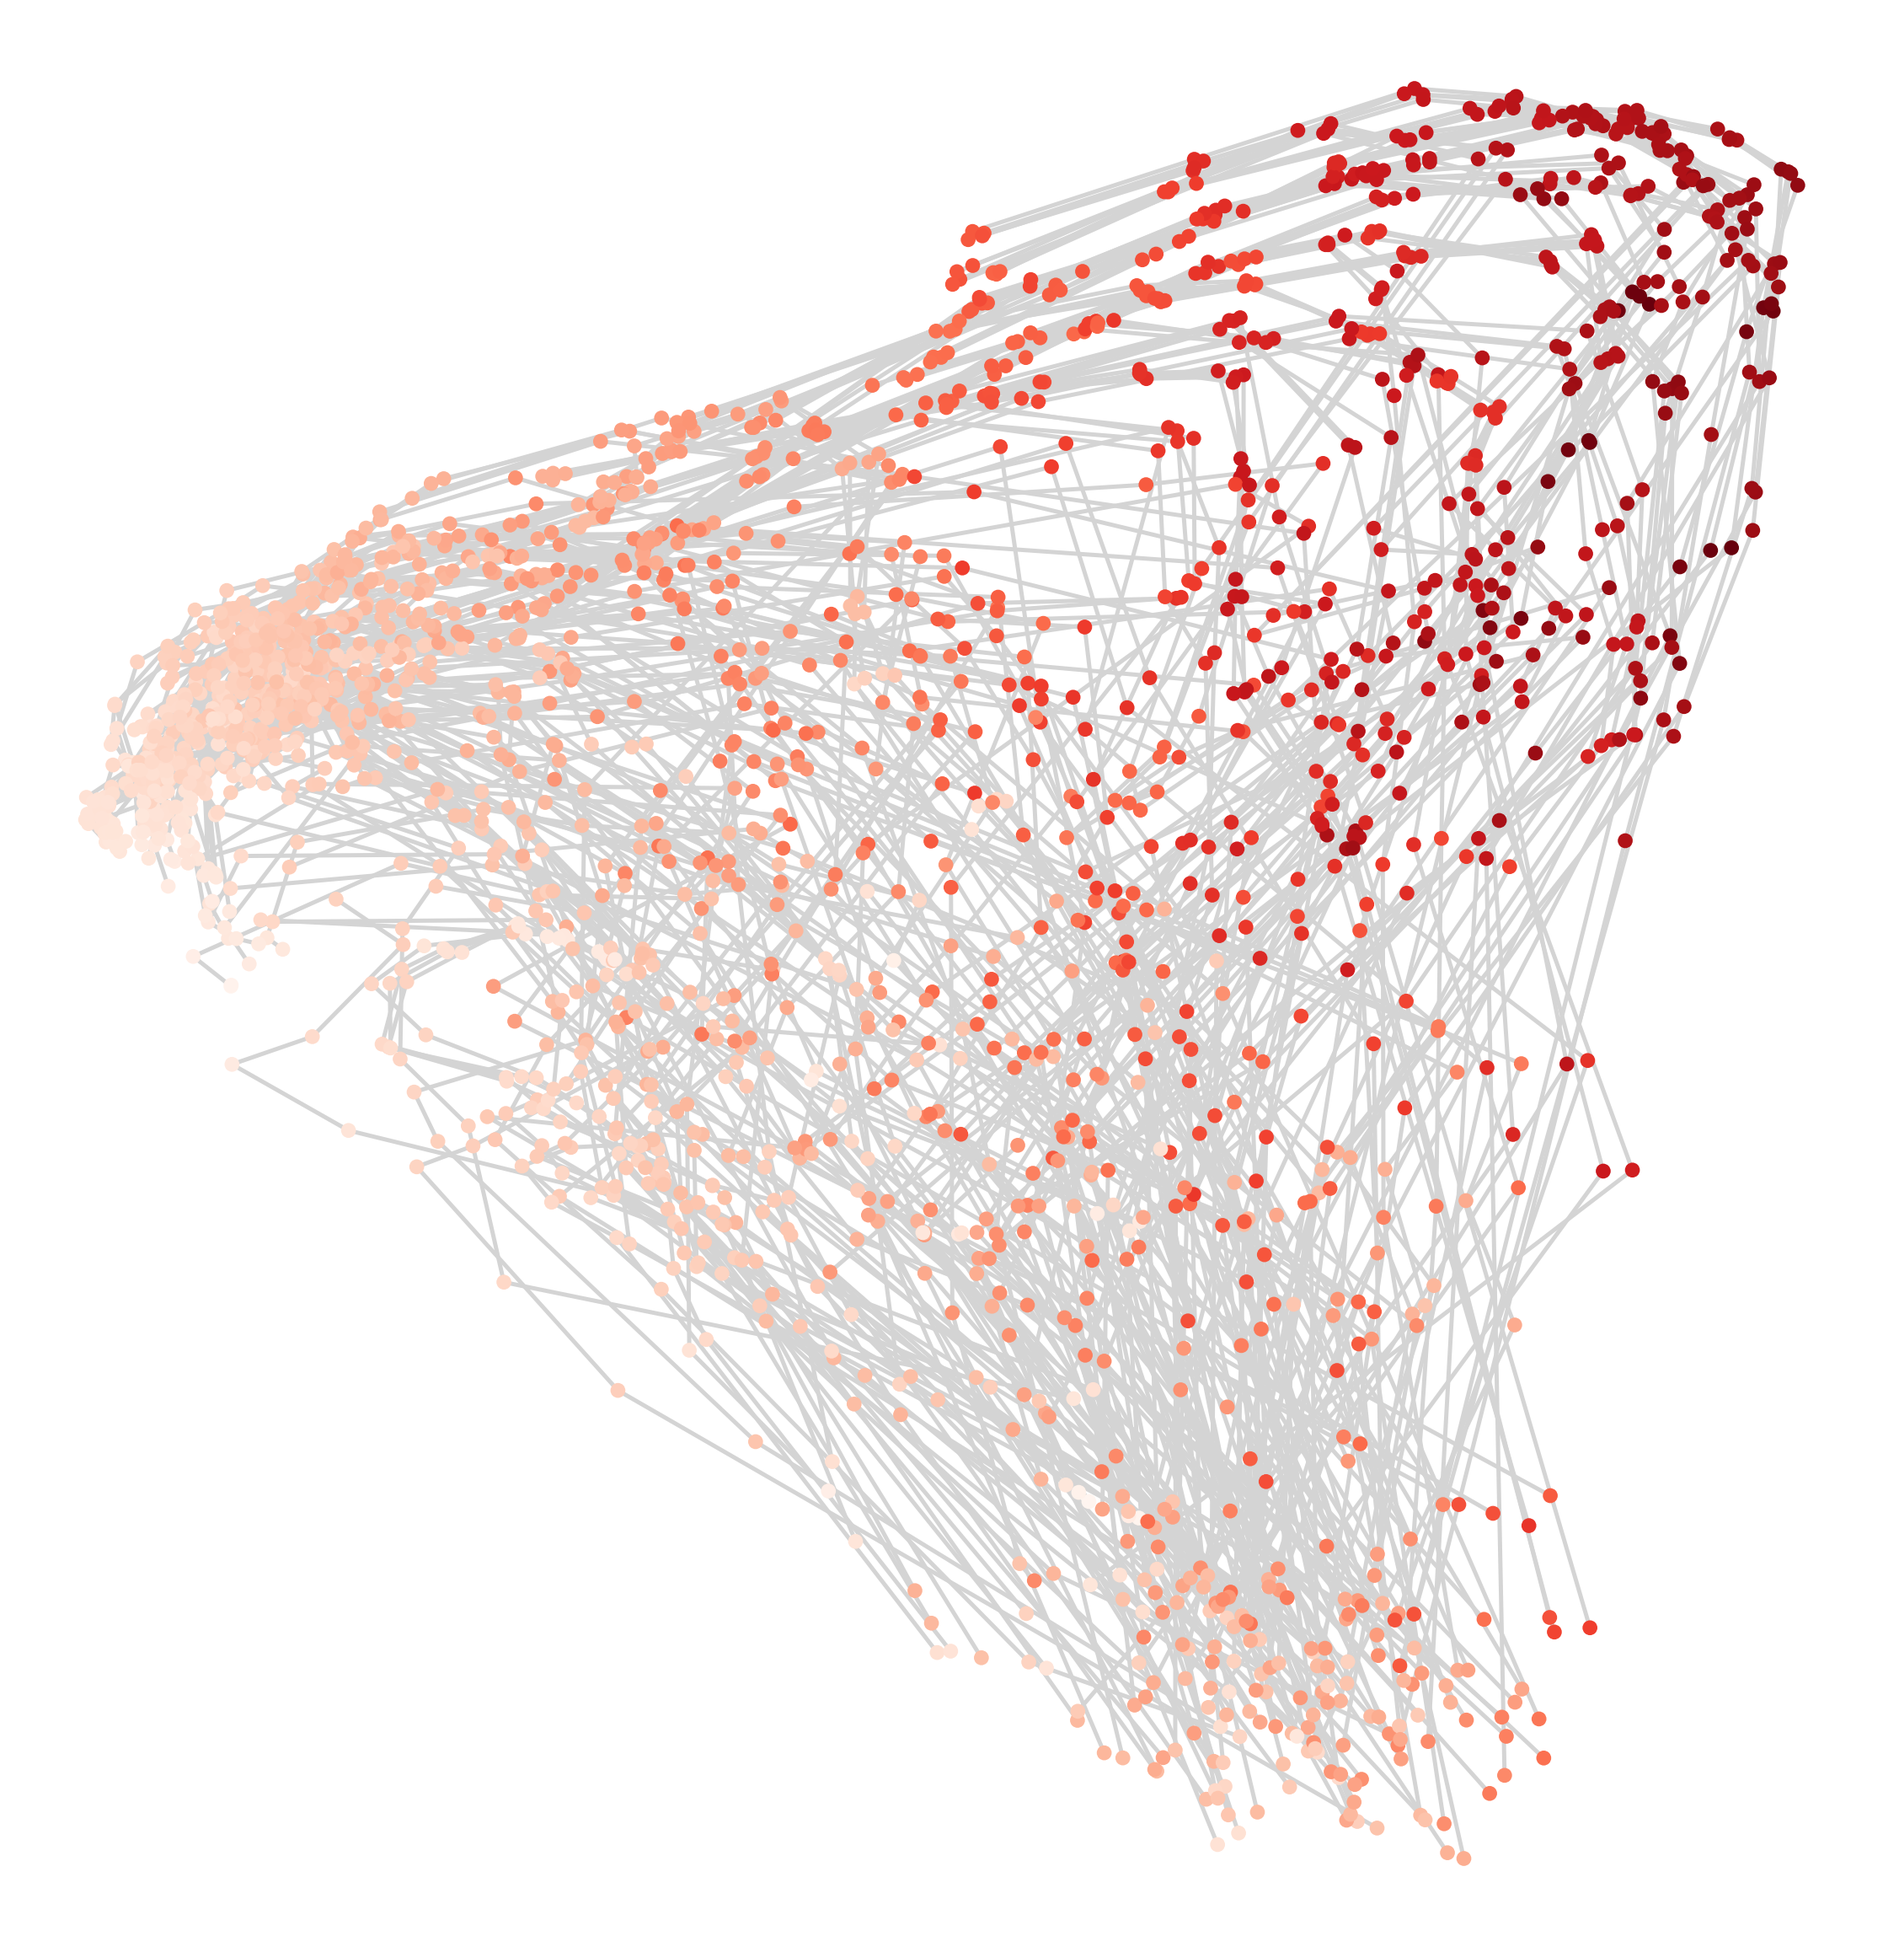
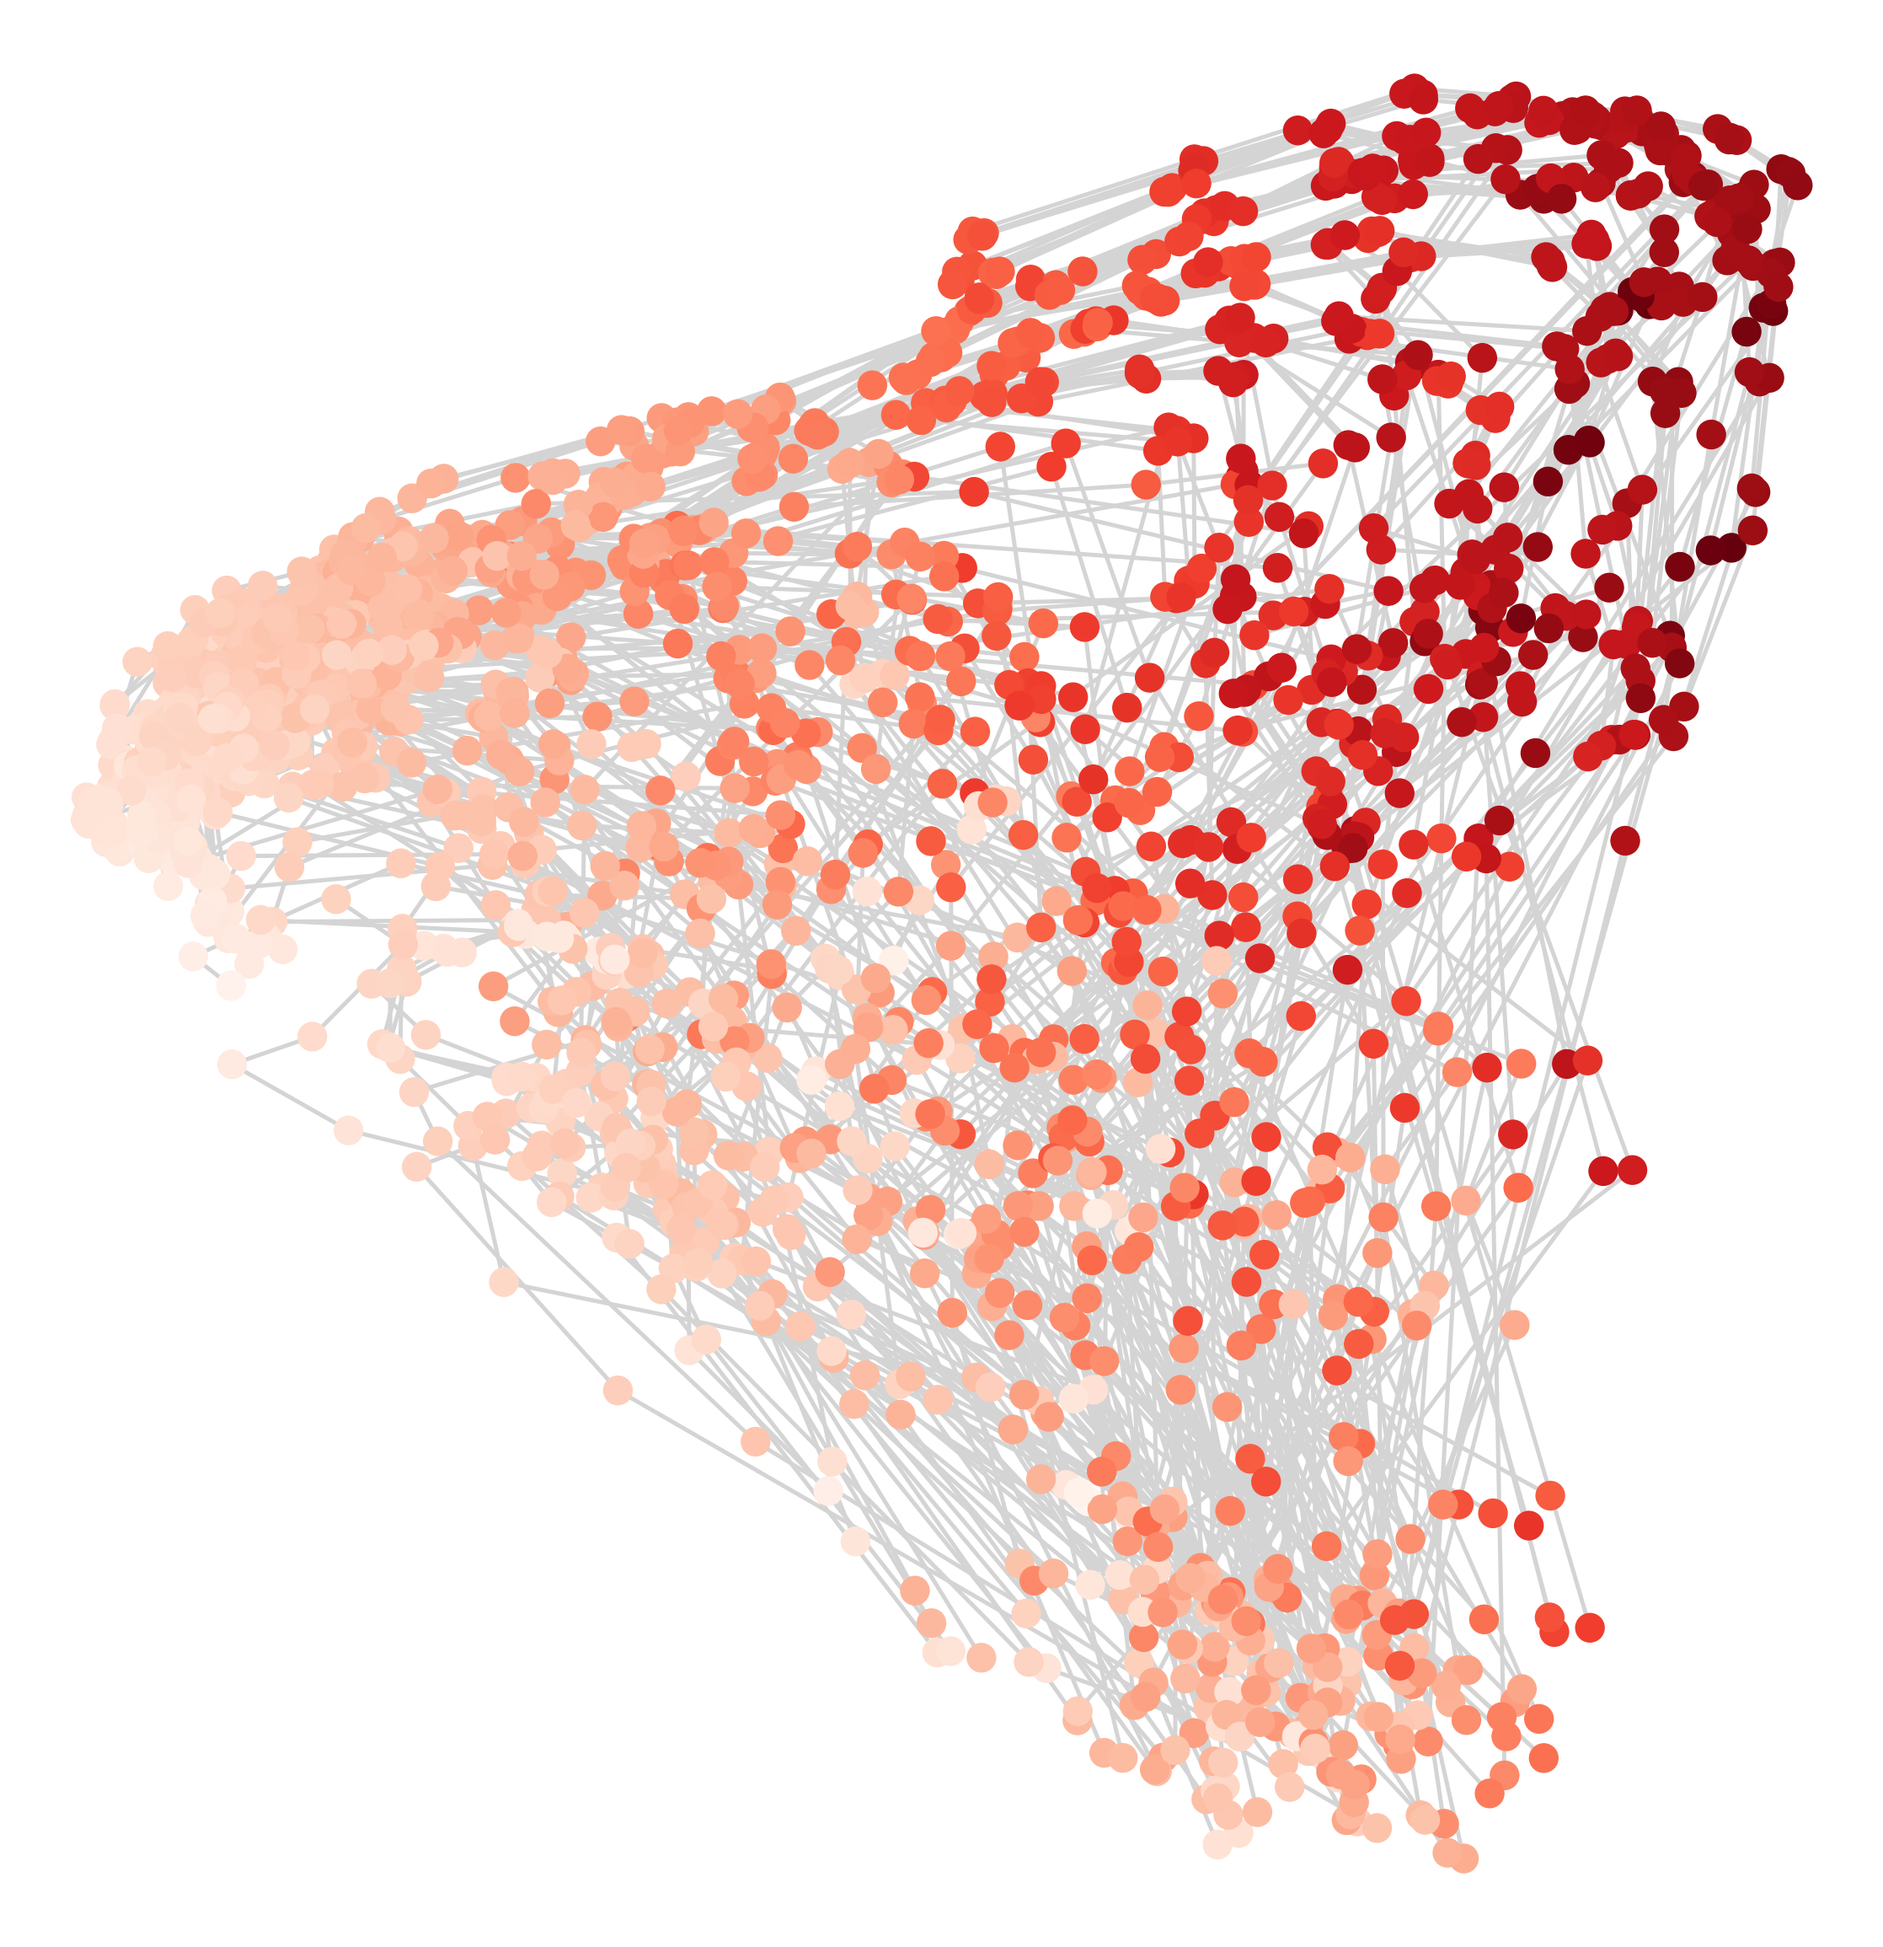
Figures: 4× larger dots in pc_clean (s=18 → 72)

Changed region(s): [[0.0309, 0.0312, 0.957, 0.9662], [0.4631, 0.8104, 0.494, 0.8416], [0.247, 0.6545, 0.2779, 0.6857]]

diff --git a/figures/pc_clean.py b/figures/pc_clean.py
@@ -124,7 +124,7 @@ def main() -> None:
             ax.scatter(
                 r["pc"][0], r["pc"][1],
                 c=color_persona(t_cos(r["cos"])),
-                s=18, edgecolors="none", zorder=2,
+                s=72, edgecolors="none", zorder=2,
             )
 
     ax.set_aspect("equal")
